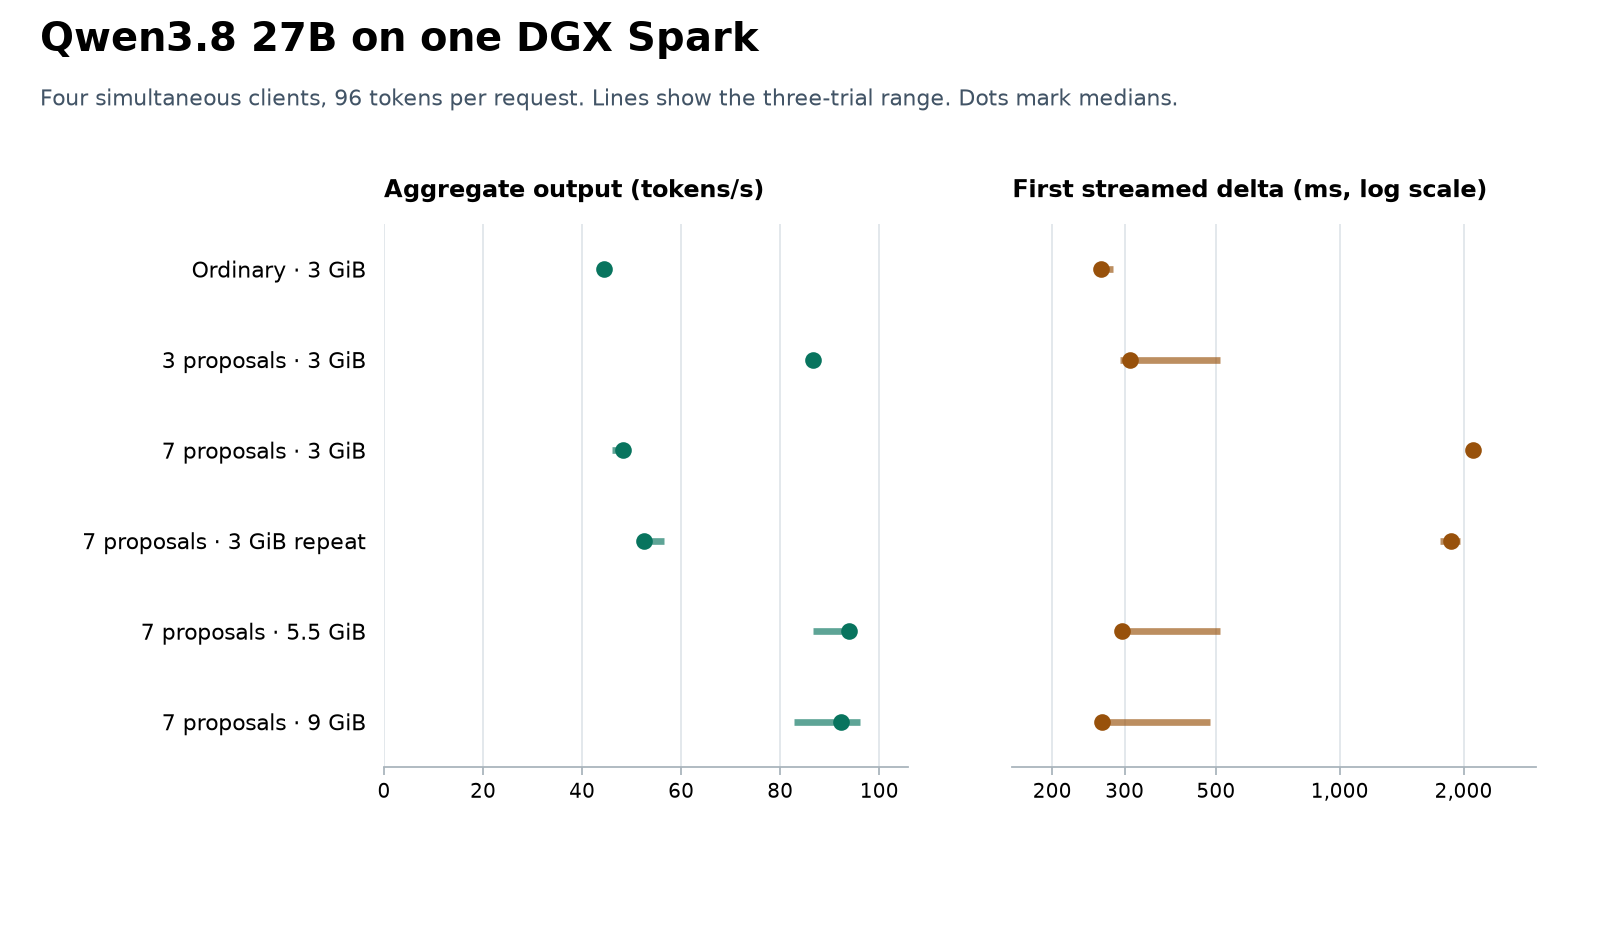
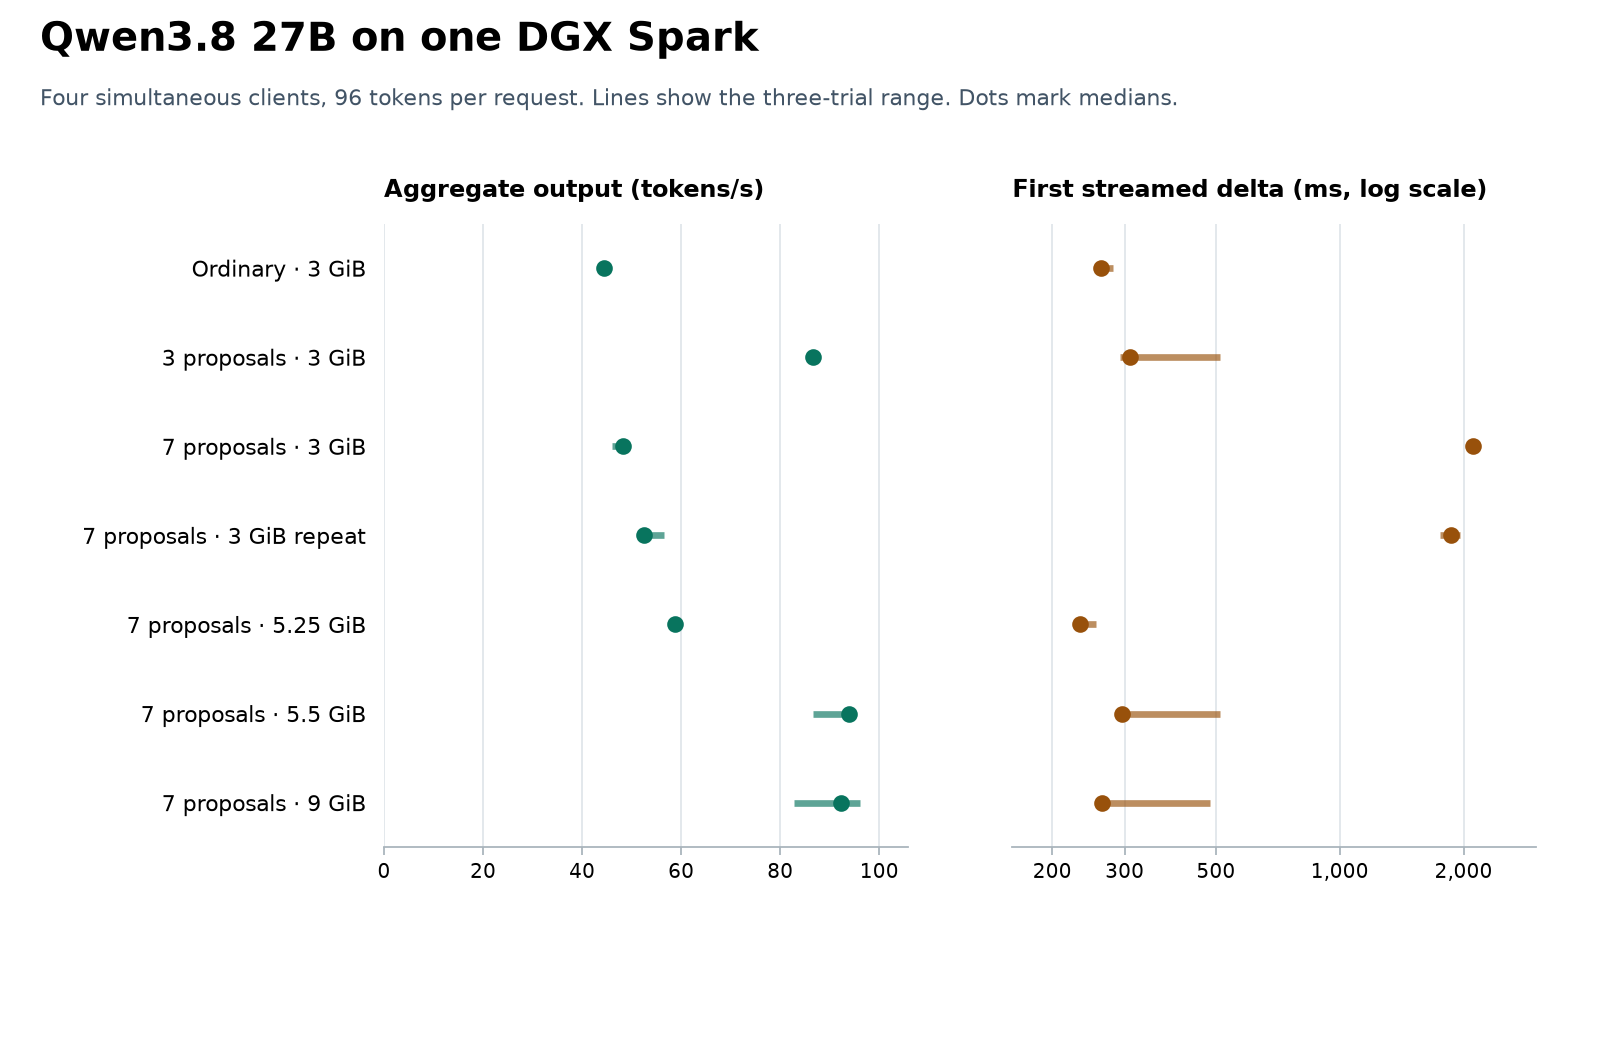
Confirm the Qwen admission boundary on a held-out 5.25 GiB run

diff --git a/inference-recipes/results/qwen38-27b-dflash2-2026-11-20/kv-budget/README.md b/inference-recipes/results/qwen38-27b-dflash2-2026-11-20/kv-budget/README.md
@@ -17,6 +17,7 @@ At **5.5 GiB**, seven proposals delivered **93.86 tok/s at four clients**, with 
 | [Larger KV pool](7-kv9/) | 9 | 7 | 36,006 | 30.85 / 92.29 | 1.14 / 0.42 | 235 / 264 | 265 | 18 | 8 |
 | [Repeated control](7-kv3-repeat/) | 3 | 7 | 12,002 | 30.24 / 52.43 | 1.15 / 0.68 | 236 / 1868 | 3988 | 19 | 8 |
 | [5.5 GiB pool](7-kv5632m/) | 5.5 | 7 | 21,972 | 30.38 / 93.86 | 1.13 / 0.42 | 237 / 296 | 296 | 19 | 8 |
+| [5.25 GiB pool](7-kv5376m/) | 5.25 | 7 | 20,956 | 31.57 / 58.81 | 1.13 / 0.62 | 232 / 234 | 3698 | 19 | 8 |
 
 ## Larger KV pool
 
@@ -40,6 +41,14 @@ Peak sampled KV usage across the four-client trials reached 98.6% of the allocat
 
 Inside the sampled trial windows, the engine reported 7.00 at 1 client, 7.00 at 4 clients proposed tokens per draft block. The counters use the first and last in-window samples and can omit boundary steps. [Observed proposal widths](7-kv5632m/observed-draft-widths.jsonl)
 
+## 5.25 GiB pool
+
+At four clients this run delivered 1.22× the throughput of the original seven and changed GPU energy per generated token by -22.1%. It gained 0 and lost 0 correct short answers. The maximum observed number of running requests in the three repeats was 3, 3, 3. Maximum waiting counts were 1, 1, 1. [Per-trial scheduler samples](7-kv5376m/scheduler-trials.jsonl) · [Timed trials](7-kv5376m/trials.jsonl)
+
+Peak sampled KV usage across the four-client trials reached 77.5% of the allocated pool.
+
+Inside the sampled trial windows, the engine reported 7.00 at 1 client, 7.00 at 4 clients proposed tokens per draft block. The counters use the first and last in-window samples and can omit boundary steps. [Observed proposal widths](7-kv5376m/observed-draft-widths.jsonl)
+
 Each rate and latency is a median across three trials. Each trial submitted four 96-token prose requests after an excluded warm-up. GPU energy uses the cumulative NVML counter. The scheduler was polled every 250 ms during the new runs. [Sampler](../sample_metrics.py)
 
 ## Why four clients queue at 3 GiB
@@ -47,6 +56,8 @@ Each rate and latency is a median across three trials. Each trial submitted four
 The 3 GiB rerun admitted two requests and queued two in all three trials. Its four-client rate was 52.43 tok/s, compared with 48.20 in the original run. The endpoint reported 189 GPU blocks, an 832-token attention block, an 8,192-token recurrent-state block and FP32 recurrent state. vLLM reserves block zero. At one client the pool was 45.21% occupied, or 85 of the 188 usable blocks. The four-client trials peaked at 170 blocks. [Effective runtime configuration](7-kv3-repeat/effective-cache.json) · [Repeated control](7-kv3-repeat/scheduler-trials.jsonl)
 
 The same 41-token prompts and 96-token completions occupied 85 blocks per active request at 5.5 and 9 GiB. The repeated control fixes the engine’s conversion between its reported token slots and pooled blocks, giving 346 total blocks at 5.5 GiB and 567 at 9 GiB. Under a fixed number of bytes per block, these three measurements put the four-request threshold between **5.405 and 5.413 GiB**. Before the 5.25 GiB serving test we predicted that three requests would run and the fourth would wait. Longer prompts, different draft depths and other cache types require their own measurement. [Recompute the prediction](predict_slots.py) · [5.25 GiB forecast](predicted-5376m.json) · [vLLM capacity calculation](https://github.com/vllm-project/vllm/blob/v0.33.0/vllm/v1/core/kv_cache_utils.py#L1061-L1128) · [Reserved block and usage](https://github.com/vllm-project/vllm/blob/v0.33.0/vllm/v1/core/block_pool.py#L921-L932)
+
+The 5.25 GiB run confirmed the forecast with **330 total blocks, three requests running and one waiting** in every trial. Adding 256 MiB to reach 5.5 GiB raised aggregate throughput from **58.81 to 93.86 tok/s** and reduced the four-client p95 first delta from **3.70 s to 296 ms**. The median first delta alone misses the waiting client. It was 234 ms at 5.25 GiB and 296 ms at 5.5 GiB. Both pools scored 19/28 on short answers and 8/8 on lookups. [5.25 GiB engine settings](7-kv5376m/effective-cache.json) · [Measured queue](7-kv5376m/scheduler-trials.jsonl)
 
 ## Reproduce
 

diff --git a/README.md b/README.md
@@ -18,7 +18,7 @@ labski publishes reproducible experiments on local AI hardware. Each research sc
 - **Thinking Machines Inkling 2 Small on four Sparks.** The native 393.48 GB checkpoint delivered 39.34 generated tokens/s across two clients and 2.98 GPU J/output token on the switchless ring. Six inventory lookups were exact up to 3,597 input tokens. [Reproduce the run](inference-recipes/results/inkling2-gb10-runtime-2026-11-19/)
 - **Qwen3.8 Flash-Next on one or two Sparks.** The one-Spark NVIDIA FP4-Local checkpoint reached 33.98 tok/s for one client and 72.86 aggregate for four, using 1.08 and 0.52 GPU J/token. The tuned two-Spark recipe reached 21.73 and 64.96 tok/s and returned the first delta sooner at one client. [Recipes, accuracy and raw timing](inference-recipes/results/qwen38-flash-next-2026-11-19/)
 - **Selective BF16 with Qwen3.8 27B.** A mixed-first policy reproduced all 112 held-out BF16 answer letters while escalating 42 questions. It used 21.4% less two-Spark GPU energy than always querying BF16. Mixed alone was fastest and scored 73/112 against 72/112 for BF16 and the policy. [Live replay, accuracy and cost](inference-recipes/results/qwen38-27b-precision-routing-2026-11-19/)
-- **Qwen3.8 27B with DFlash2.** On one Spark, increasing the KV pool from 3 to 5.5 GiB with seven proposals raised four-client throughput from 48.20 to 93.86 tok/s and cut the median time to first streamed text from 2.10 s to 296 ms. Both settings answered the same 19/28 questions correctly and passed all eight lookups. [Timing, GPU energy and queue measurements](inference-recipes/results/qwen38-27b-dflash2-2026-11-20/kv-budget/)
+- **Qwen3.8 27B with DFlash2.** On one Spark, increasing the KV pool from 3 to 5.5 GiB with seven proposals raised four-client throughput from 48.20 to 93.86 tok/s and cut the median time to first streamed text from 2.10 s to 296 ms. A 5.25 GiB run admitted three clients and queued one, as predicted. Adding 256 MiB cut p95 time to first text from 3.70 s to 296 ms. All three settings scored 19/28 on short answers and 8/8 on lookups. [Timing, GPU energy and queue measurements](inference-recipes/results/qwen38-27b-dflash2-2026-11-20/kv-budget/)
 - **Code editing with Qwen3.8 27B.** On one Spark, current-request suffix drafting reached 50.74 tok/s against 12.07 for ordinary decoding, with all 12 single-client edits matching token for token. Four clients reached 151.76 aggregate tok/s. Unrelated prose showed much smaller gains or a loss, depending on the proposer. [Four draft policies, paired outputs and GPU energy](inference-recipes/results/qwen38-27b-drafting-2026-11-19/)
 - **Qwen3.8 27B on one Spark.** Mixed FP4 delivered 2.78–2.79× the BF16 throughput on the same machines at one client. BF16 scored 83/112 on a short-answer diagnostic and mixed FP4 scored 74/112 and 78/112 on the two machines. [Timing, paired answers and recipes](inference-recipes/results/qwen38-27b-precision-2026-11-19/)
 - **One, two or four Sparks for Qwen3.8 27B.** One client reached 12.40, 20.46 and 33.94 output tok/s on one, two and four Sparks. Four clients reached 110.77 tok/s on the switchless RoCE ring using stock NCCL. With native BF16 those four delivered 54.33 tok/s and retained every sampled correctness verdict from the single-Spark BF16 baseline. [Transport, quality and GPU energy](inference-recipes/results/qwen38-27b-scaling-2026-11-19/) At 32 clients with 9 GiB KV per GPU, TP2 reached 354.39 tok/s at 0.21 GPU J/token. Two replicas reached 296.47 tok/s with a shorter p95 first-token wait (455 vs 587 ms). On the second pair, 3.25 GiB per GPU was enough for all 32 short requests and 351.58 tok/s on TP2. [Replica comparison](inference-recipes/results/qwen38-27b-pair-serving-2026-11-20/)
